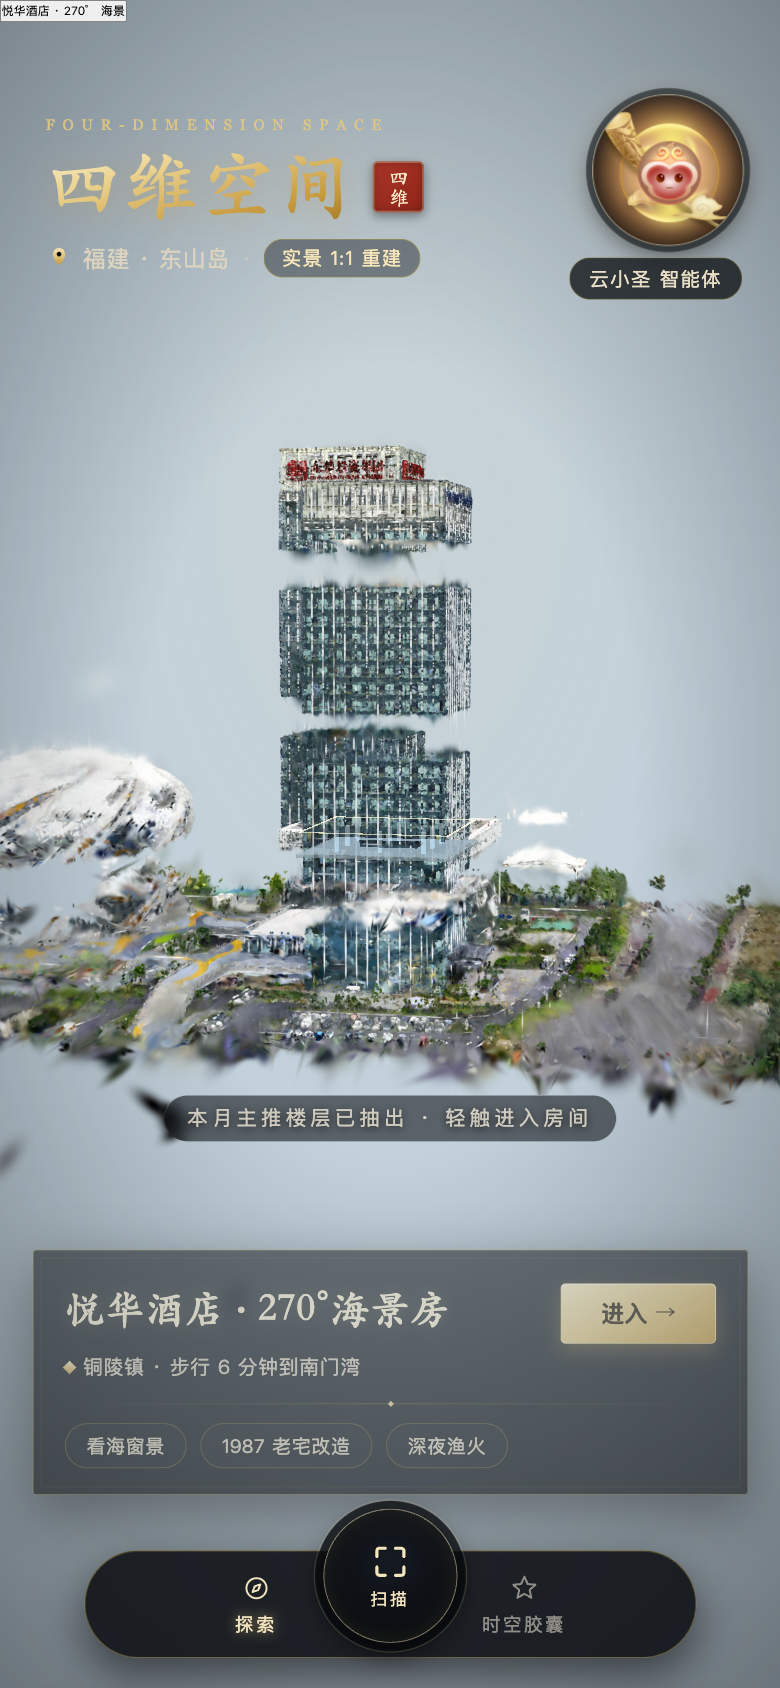
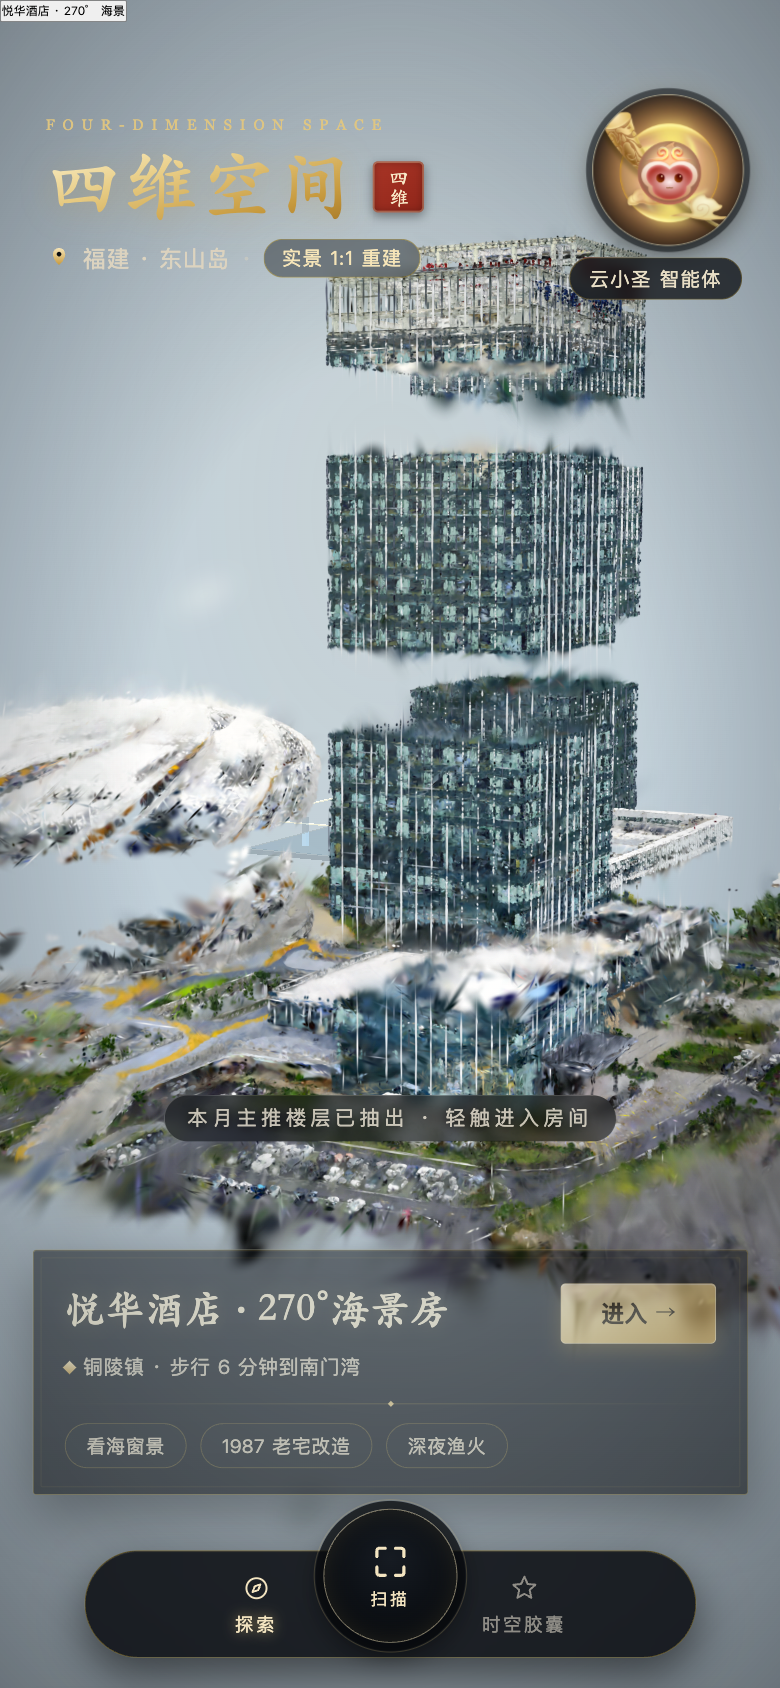
fix: 抽屉动画合并为单条时间轴（消除闪烁/回跳）
- 删掉并行的第二条 playTimeline（这就是「闪一下」的原因：两条轴抢相机）
- 镜头改为一个连续运镜：锚定 → 分层 → 推到目标楼层
- 目标楼层移到左塔内（cx-38 / cz-14 / midY+8）

diff --git a/src/pc/boot.ts b/src/pc/boot.ts
@@ -100,61 +100,50 @@ export async function bootPc() {
     card.classList.add('dim');
     hint.classList.add('hide');
     engine.controls.autoRotate = false;
-
-    // ① 宏观锚定：楼体脱街景、悬浮、缓慢自转（暗场 + 拉远一点）
     document.body.classList.add('godview');
+
+    // 目标楼层在「左塔」里：x 往左、z 往前的偏移，高度取中间那刀
+    const TOX = cx - 38;
+    const TOZ = cz - 14;
+    const TOY = midY + 8;
+    const cam0 = {
+      target: [...engine.camera.target] as [number, number, number],
+      distance: engine.camera.distance,
+      yaw: engine.camera.yaw,
+      pitch: engine.camera.pitch,
+      fov: engine.camera.fov,
+    };
+
+    // ① 宏观锚定（0–1.0s）：一个连续镜头，不再叠加第二条时间轴
     engine.playTimeline(
       [
-        { t: 0, target: [...engine.camera.target] as [number, number, number], distance: engine.camera.distance, yaw: engine.camera.yaw, pitch: engine.camera.pitch, fov: engine.camera.fov },
-        { t: 1.1, target: [cx, midY + 20, cz], distance: 620, yaw: 0.18, pitch: 0.14, fov: 46, ease: 'inOutCubic' },
+        { t: 0, ...cam0 },
+        { t: 1.0, target: [cx, midY + 14, cz], distance: 620, yaw: 0.42, pitch: 0.2, fov: 46, ease: 'inOutCubic' },
+        // ② 空间折叠（1.0–2.8s）：镜头几乎不动，只把楼拉开
+        { t: 2.8, target: [cx, midY + 14, cz], distance: 600, yaw: 0.46, pitch: 0.18, fov: 46, ease: 'inOutCubic' },
+        // ③ 卡位（2.8–3.9s）：镜头轻推到目标楼层
+        { t: 3.9, target: [TOX, TOY, TOZ], distance: 430, yaw: 0.5, pitch: 0.16, fov: 44, ease: 'inOutCubic' },
       ],
       () => {
-        engine.controls.autoRotate = true;
+        drawerOpen = true;
+        busy = false;
+        hint.textContent = '本月主推楼层已抽出 · 轻触进入房间';
+        hint.classList.remove('hide');
       },
     );
 
-    // ② 空间折叠：千层糕展开（1.1s 起，1.6s）
-    window.setTimeout(() => {
-      engine.controls.autoRotate = false;
-      engine.openUnfold(16, 1900, 3);
-      sfx.whoosh(0.8);
-      engine.playTimeline(
-        [
-          { t: 0, target: [cx, midY + 20, cz], distance: 620, yaw: 0.18, pitch: 0.14, fov: 46 },
-          { t: 2.0, target: [cx, midY + 10, cz], distance: 560, yaw: 0.22, pitch: 0.12, fov: 46, ease: 'inOutCubic' },
-        ],
-      );
-    }, 1100);
+    // 分层展开与镜头同步开始，不再用 setTimeout 另起一条时间轴
+    engine.openUnfold(16, 1800, 3);
+    sfx.whoosh(0.8);
 
-    // ③ 抽屉卡位：目标层抽出 + 震动 + 机械声
+    // 卡位：目标层抽出（镜头同一时间推到它面前）
     window.setTimeout(() => {
-      // 目标层（第 3 层）展开后在 midY + 37m 的位置：盒子就在原地，只沿视线方向轻推出来
       const yaw = engine.camera.yaw;
-      const dir: [number, number, number] = [Math.sin(yaw) * 0.55, 0.12, Math.cos(yaw) * 0.55];
-      engine.showRoom([cx, midY + 8, cz], dir, 20, 1400, 'outBack');
+      const dir: [number, number, number] = [Math.sin(yaw) * 0.5, 0.1, Math.cos(yaw) * 0.5];
+      engine.showRoom([TOX, TOY, TOZ], dir, 22, 1200, 'outBack');
       sfx.latch();
-      haptic(16);
-    }, 2700);
-
-    engine.playTimeline(
-      [
-        { t: 0, target: [...engine.camera.target] as [number, number, number], distance: engine.camera.distance, yaw: engine.camera.yaw, pitch: engine.camera.pitch, fov: engine.camera.fov },
-        { t: 1.0, target: [cx, midY + 8, cz], distance: 340, yaw: 0.55, pitch: 0.3, fov: 56, ease: 'outCubic' },
-      ],
-      () => {
-        const yaw = engine.camera.yaw;
-        const dir: [number, number, number] = [Math.sin(yaw) * 0.85, 0.55, Math.cos(yaw) * 0.85];
-        engine.showRoom([cx, midY - 24, cz], dir, 60, 1500, 'outBack');
-        window.setTimeout(() => {
-          drawerOpen = true;
-          busy = false;
-          sfx.latch();
-          haptic(14);
-          hint.textContent = '本月主推楼层已抽出 · 轻触进入房间';
-          hint.classList.remove('hide');
-        }, 1500);
-      },
-    );
+      haptic(14);
+    }, 2750);
   };
 
   const enterRoom = () => {
